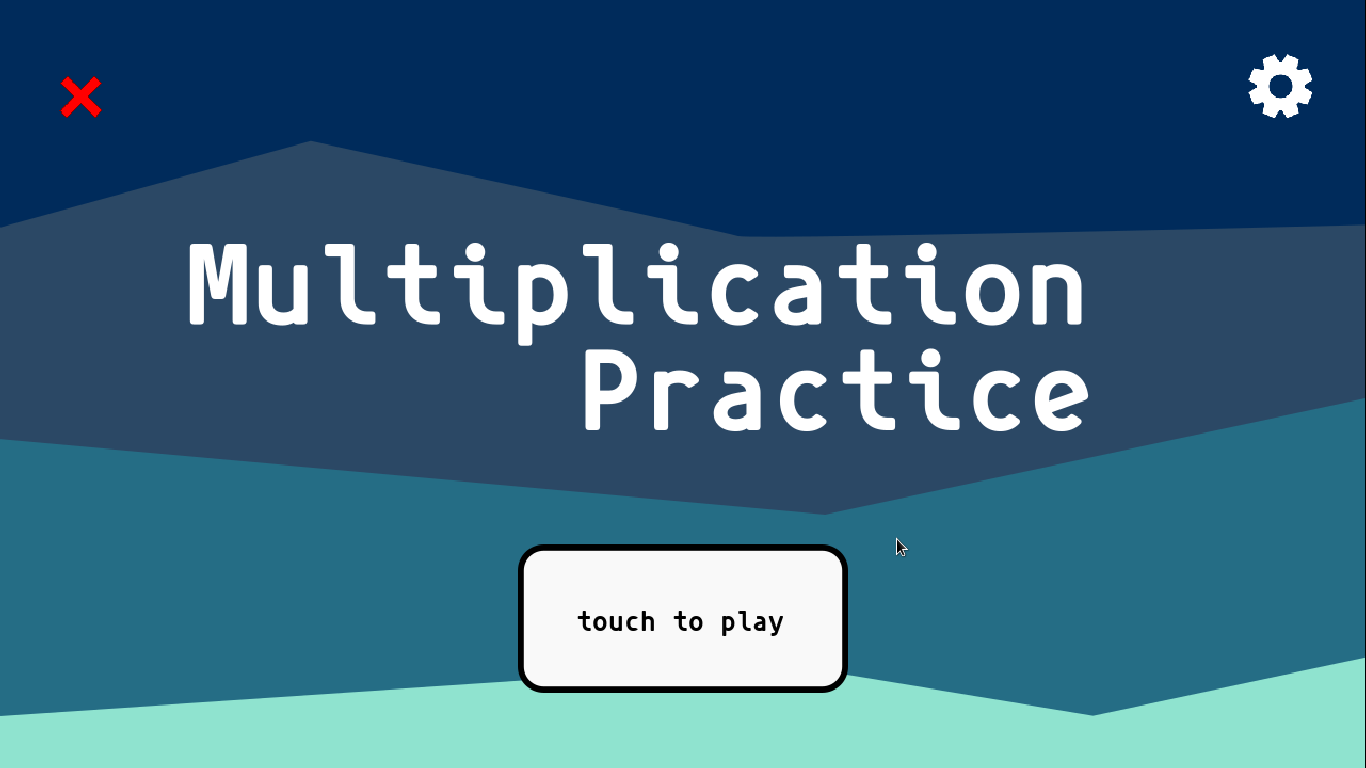
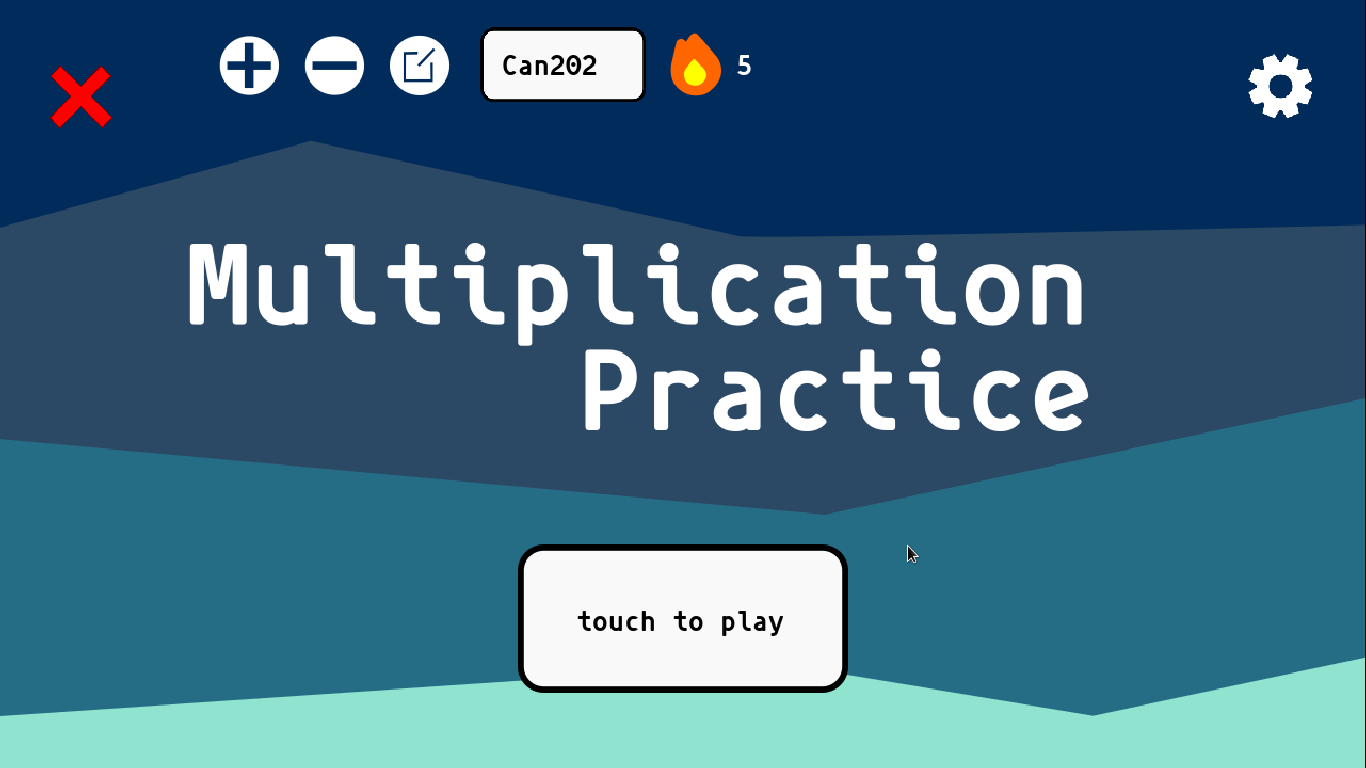
not remove the last profile

Changed region(s): [[0.1537, 0.0312, 0.5534, 0.1562], [0.0307, 0.0938, 0.0922, 0.1562], [0.6457, 0.6875, 0.6764, 0.75]]

diff --git a/src/main.py b/src/main.py
@@ -245,15 +245,16 @@ class Game:
                 self.mainMenu.addprbtn.get_pressed = False
                 self.writenewProfile()
             if self.mainMenu.removeprbtn.get_pressed:
-                self.savecounterTime.timing = True
-                self.savecounterTime.time = 0
-                self.savecounter -= 1
                 self.mainMenu.removeprbtn.get_pressed = False
-                self.mainMenu.saveremovetext.text = f"{self.savecounter} left"
-                if self.savecounter <= 0:
-                    self.removecurrentProfile()
-                    self.savecounter = 5
-                    self.mainMenu.saveremovetext.text = f""
+                if len(self.profiles) > 1:
+                    self.savecounterTime.timing = True
+                    self.savecounterTime.time = 0
+                    self.savecounter -= 1
+                    self.mainMenu.saveremovetext.text = f"{self.savecounter} left"
+                    if self.savecounter <= 0:
+                        self.removecurrentProfile()
+                        self.savecounter = 5
+                        self.mainMenu.saveremovetext.text = f""
             if self.mainMenu.renameprbtn.get_pressed:
                 self.mainMenu.renameprbtn.get_pressed = False
                 self.mainMenu.running = False
